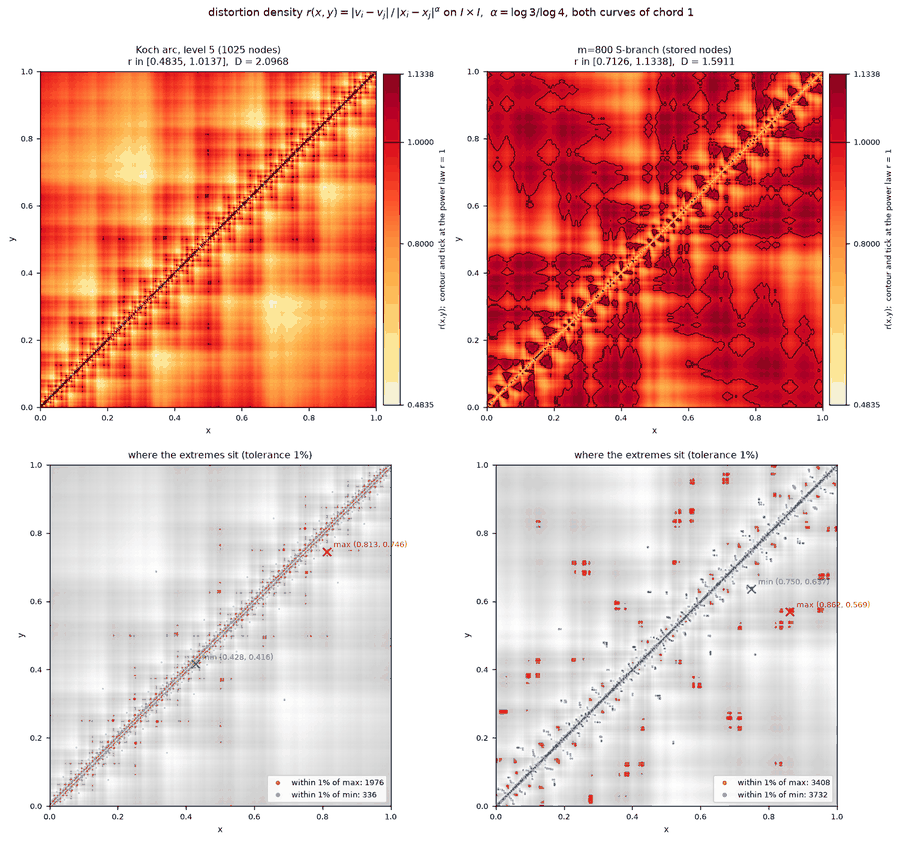
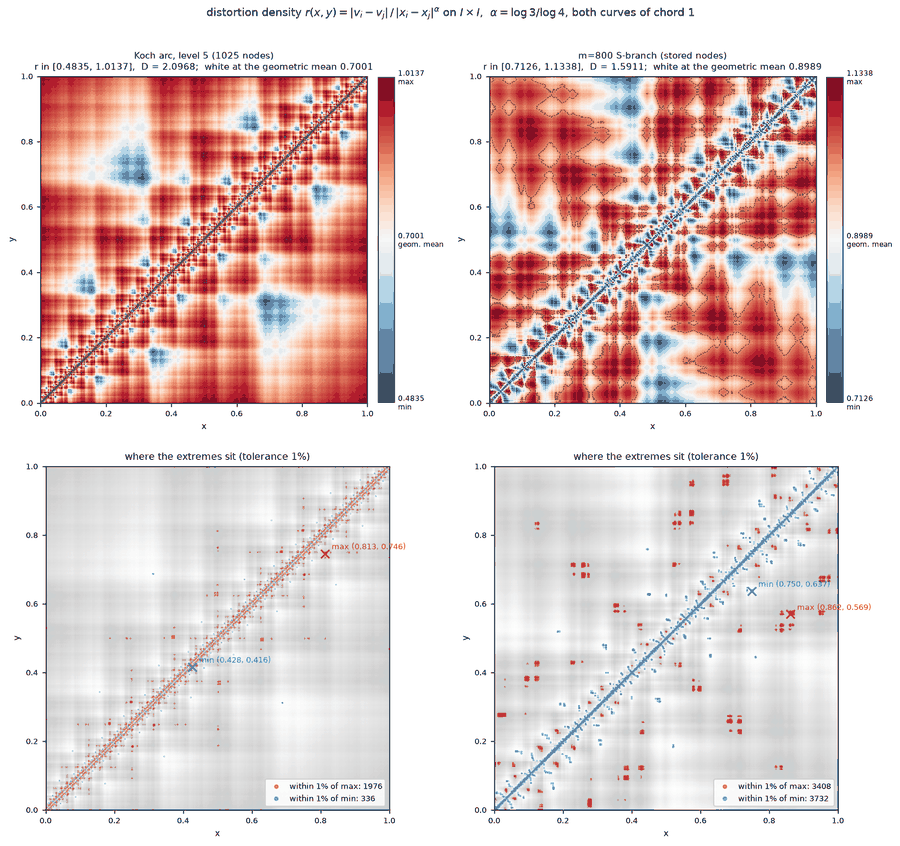
Diverging colour scale centred at each panel's geometric mean
Blue is the minimum and red the maximum, with white at the geometric mean of the
panel's own range (0.700066 for Koch level 5, 0.898866 for m=800), so the colour
change falls at the logarithmic centre. The script checks that the geometric
mean renders as the map's white and that nothing falls outside the scale.

diff --git a/scripts/distortion_heatmap.py b/scripts/distortion_heatmap.py
@@ -24,9 +24,10 @@ from pathlib import Path
 
 import matplotlib
 matplotlib.use("Agg")
+import matplotlib.ticker
 import matplotlib.pyplot as plt
 import numpy as np
-from matplotlib.colors import Normalize
+from matplotlib.colors import LogNorm
 
 ROOT = Path(__file__).resolve().parents[1]
 sys.path.insert(0, str(ROOT / "scripts"))
@@ -74,34 +75,39 @@ def main():
         print(f"   argmax at x,y = {s['amax']}   argmin at x,y = {s['amin']}")
         print(f"   pairs within 1% of max {len(s['near_hi'])}, of min {len(s['near_lo'])}")
 
-    vmin = min(s["lo"] for s in st)
-    vmax = max(s["hi"] for s in st)
-    # r = 1 is the alpha-power law itself, so centre the diverging scale there;
-    # the limits are exactly the extremes over both panels, so nothing is clipped
+    # Each panel is drawn on its own logarithmic scale, so that the colour change
+    # falls at the geometric mean of that panel's range; r itself is a ratio, so
+    # the log centre is the natural middle.  Blue is the minimum, red the maximum.
     for (name, r, _), s in zip(data, st):
-        assert np.nanmin(r) >= vmin and np.nanmax(r) <= vmax
-    assert vmin < 1.0 < vmax, (vmin, vmax)
-    norm = Normalize(vmin=vmin, vmax=vmax)
-    print(f"shared linear scale [{vmin:.6f}, {vmax:.6f}]: nothing falls outside it, "
-          f"so nothing is clipped")
+        assert np.isclose(np.nanmin(r), s["lo"]) and np.isclose(np.nanmax(r), s["hi"])
+        g = np.sqrt(s["lo"] * s["hi"])
+        rgb = matplotlib.colormaps["RdBu_r"](LogNorm(vmin=s["lo"], vmax=s["hi"])(g))
+        assert min(rgb[:3]) > 0.95, rgb
+        print(f"{name}: log scale over [{s['lo']:.6f}, {s['hi']:.6f}], "
+              f"geometric mean {g:.6f} renders as RGB "
+              f"{tuple(round(c, 3) for c in rgb[:3])}; nothing is clipped")
     fig, ax = plt.subplots(2, 2, figsize=(11.6, 10.8))
 
     for col, ((name, r, x), s) in enumerate(zip(data, st)):
         a0 = ax[0, col]
-        im = a0.imshow(r, origin="lower", extent=[0, 1, 0, 1], cmap="YlOrRd",
-                       norm=norm, interpolation="nearest")
+        gmean = np.sqrt(s["lo"] * s["hi"])
+        im = a0.imshow(r, origin="lower", extent=[0, 1, 0, 1], cmap="RdBu_r",
+                       norm=LogNorm(vmin=s["lo"], vmax=s["hi"]), interpolation="nearest")
         # the level set r = 1 is the alpha-power law itself
         a0.contour(np.linspace(0, 1, r.shape[1]), np.linspace(0, 1, r.shape[0]),
-                   np.nan_to_num(r, nan=1.0), levels=[1.0], colors="k", linewidths=0.5)
+                   np.nan_to_num(r, nan=1.0), levels=[1.0], colors="0.25",
+                   linewidths=0.5, linestyles="--")
         a0.set_title(f"{name}\n"
-                     f"r in [{s['lo']:.4f}, {s['hi']:.4f}],  D = {s['D']:.4f}", fontsize=9)
+                     f"r in [{s['lo']:.4f}, {s['hi']:.4f}],  D = {s['D']:.4f};  "
+                     f"white at the geometric mean {gmean:.4f}", fontsize=8.5)
         a0.set_xlabel("x", fontsize=8); a0.set_ylabel("y", fontsize=8)
         a0.tick_params(labelsize=7)
-        cb = fig.colorbar(im, ax=a0, fraction=0.046, pad=0.02,
-                          ticks=[vmin, 0.8, 1.0, vmax])
-        cb.set_label("r(x,y);  contour and tick at the power law r = 1", fontsize=7)
-        cb.ax.tick_params(labelsize=7)
-        cb.ax.axhline(1.0, color="k", lw=0.8)
+        cb = fig.colorbar(im, ax=a0, fraction=0.046, pad=0.03)
+        cb.set_ticks([s["lo"], gmean, s["hi"]])
+        cb.set_ticklabels([f"{s['lo']:.4f}\nmin", f"{gmean:.4f}\ngeom. mean",
+                           f"{s['hi']:.4f}\nmax"])
+        cb.ax.tick_params(labelsize=6.5, length=0)
+        cb.ax.yaxis.set_minor_locator(matplotlib.ticker.NullLocator())
         a0.plot([0, 1], [0, 1], color="0.35", lw=0.4, alpha=0.7)
 
         a1 = ax[1, col]

diff --git a/results/distortion-heatmap.md b/results/distortion-heatmap.md
@@ -13,16 +13,25 @@ configurations, both at chord 1 so the fields are comparable:
 Figure: `figures/distortion-heatmap.png`, with the pairs within $1\%$ of each
 extreme marked underneath.
 
-Colour convention: a shared linear scale whose limits are **exactly** the global
-minimum and maximum over both panels, $[0.483459,\ 1.133801]$, so no value is
-clipped (the script asserts it). Pale is the minimum, dark red the maximum; the
-black contour is the level set $r=1$, the $\alpha$-power law itself. The
+Colour convention: each panel is on a logarithmic scale spanning exactly its own
+range, drawn with a diverging map (blue minimum, white at the **geometric
+mean**, red maximum), so the colour change falls at the logarithmic centre of
+that panel's range:
+
+| panel | range | geometric mean (white) |
+|---|---|---|
+| Koch level 5 | $[0.483459,\ 1.013719]$ | $0.700066$ |
+| $m=800$ | $[0.712611,\ 1.133801]$ | $0.898866$ |
+
+The script checks that the geometric mean renders as the white of the map and
+that no value falls outside its scale, so nothing is clipped. The panels are
+therefore *not* on a common colour scale: each is centred on its own range. The
+dashed contour is the level set $r=1$, the $\alpha$-power law itself. The
 diagonal $x=y$, where $r$ is undefined, is masked and drawn as a thin line.
 
-An earlier rendering of the same field used `magma` on a log scale, whose low
-end is black: the pixels for $r\approx0.48$–$0.55$ then came out black and read
-as missing data. They were the minima. On that scale those values occupy only
-the first $15\%$ of the map, which is why the low band looked like holes.
+An earlier rendering used `magma` on a shared log scale, whose low end is
+black: the pixels for $r\approx0.48$–$0.55$ came out black and read as missing
+data. They were the minima.
 
 ## Why the node level, not the continuum
 
